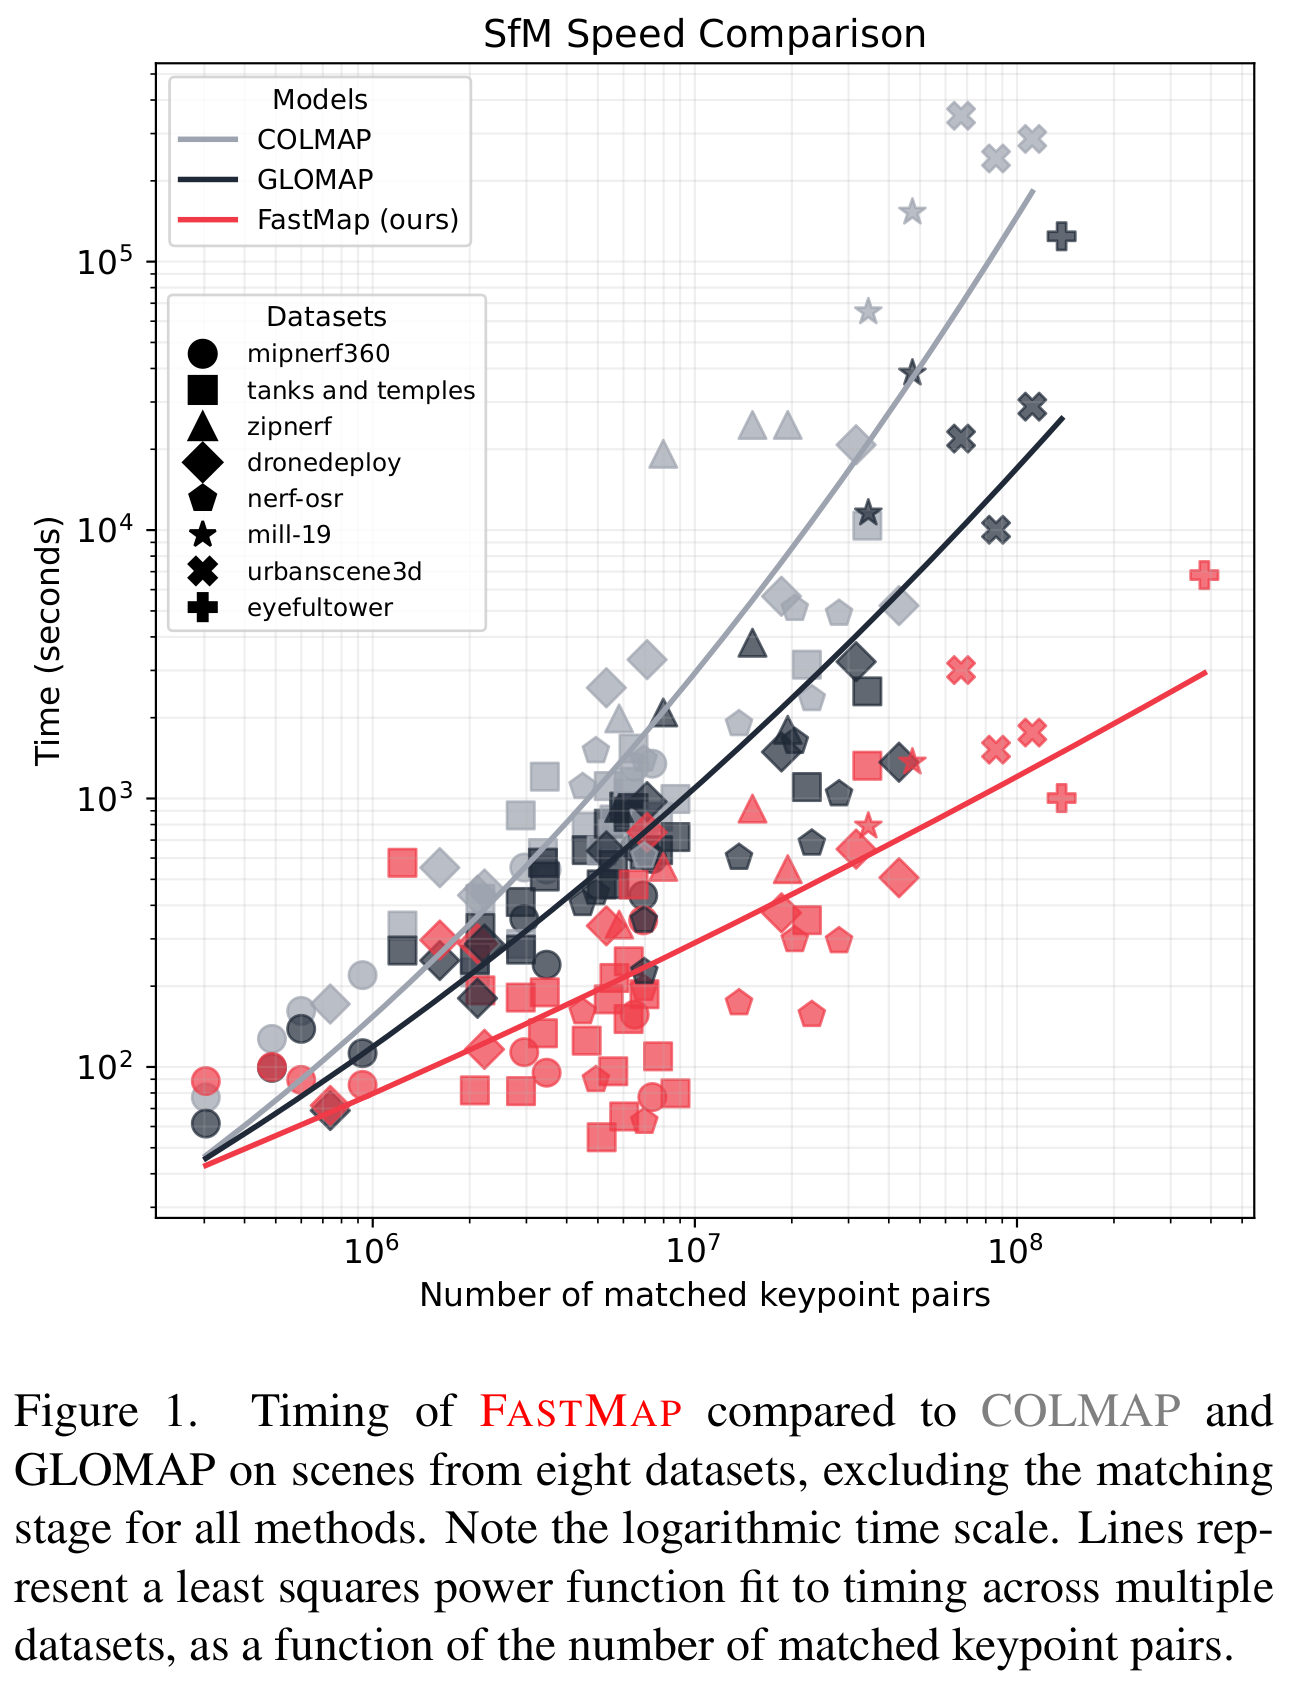
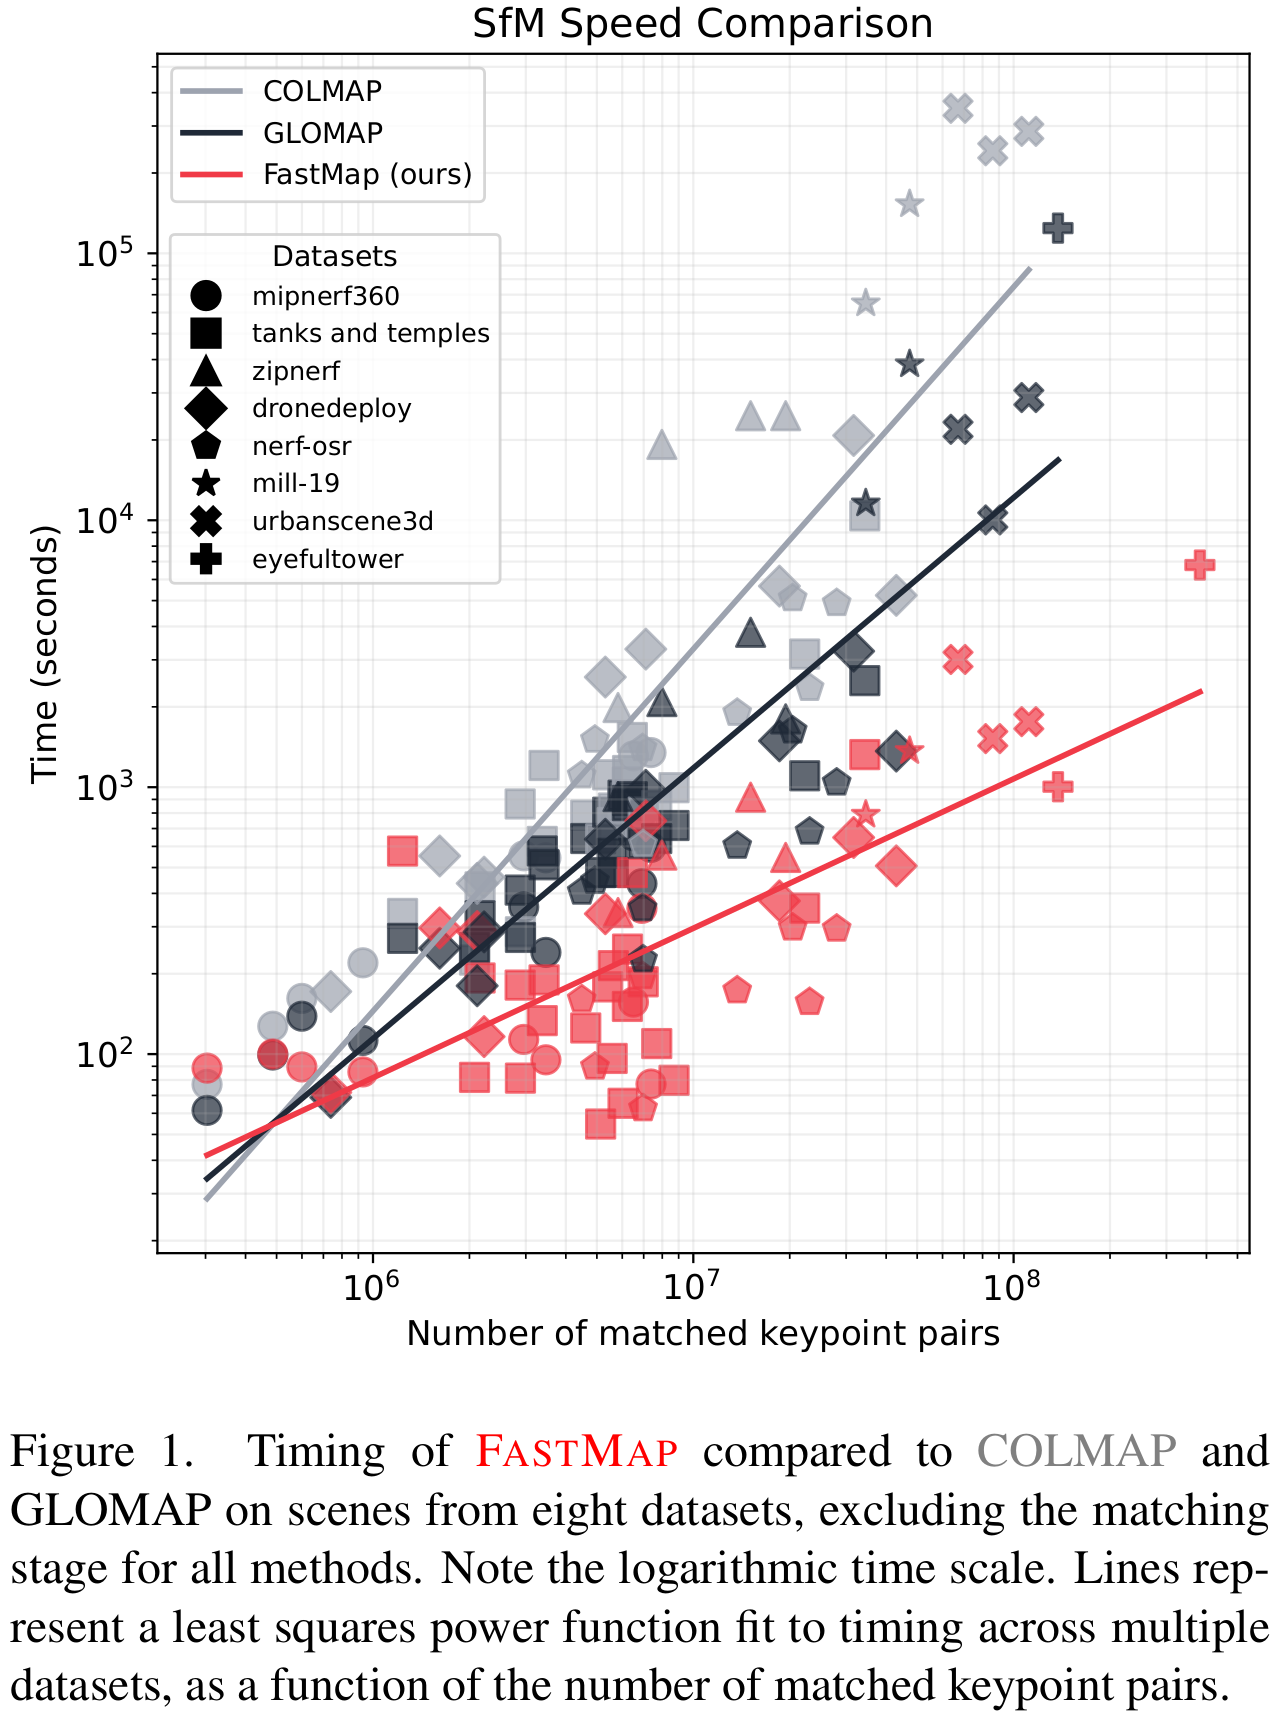
update fastmap

diff --git a/fastmap/index.html b/fastmap/index.html
@@ -55,7 +55,7 @@
       <div class="columns is-centered">
         <div class="column has-text-centered">
           <h1 class="title is-1 publication-title"> 
-            <span class="dnerf">FastMap: Revisiting Dense and Scalable Structure from Motion</span>
+            <span class="dnerf">FastMap: Revisiting Structure from Motion through First-Order Optimization</span>
           </h1>
 
           <div class="is-size-5 publication-authors">
@@ -134,11 +134,11 @@
       <div class="column is-four-fifths">
         <h2 class="title is-3">Abstract</h2>
         <div class="content has-text-justified">
-          <p style="color: gray;">
-            <b>NOTE</b>: <i>We recently tested the newly added GPU support in GLOMAP. Paired with powerful CPUs, it runs much faster than the pure CPU version, and the speed gap between FastMap and GLOMAP is smaller than reported in the current version of the paper. We are trying to get more detailed timing results on different hardware configurations and will report them soon.</i><br>
-          </p>
+          <!-- <p style="color: gray;"> -->
+          <!--   <b>NOTE</b>: <i>We recently tested the newly added GPU support in GLOMAP. Paired with powerful CPUs, it runs much faster than the pure CPU version, and the speed gap between FastMap and GLOMAP is smaller than reported in the current version of the paper. We are trying to get more detailed timing results on different hardware configurations and will report them soon.</i><br> -->
+          <!-- </p> -->
           <p>
-            We propose <strong>FastMap</strong>, a new global structure from motion method focused on speed and simplicity. Previous methods like COLMAP and GLOMAP are able to estimate high-precision camera poses, but suffer from poor scalability when the number of matched keypoint pairs becomes large. We identify two key factors leading to this problem: poor parallelization and computationally expensive optimization steps. To overcome these issues, we design an SfM framework that relies entirely on GPU-friendly operations, making it easily parallelizable. Moreover, each optimization step runs in time linear to the number of image pairs, independent of keypoint pairs or 3D points. Through extensive experiments, we show that <strong>FastMap</strong> is one to two orders of magnitude faster than COLMAP and GLOMAP on large-scale scenes with comparable pose accuracy.
+            We propose <strong>FastMap</strong>, a new global structure from motion method focused on speed and simplicity. Previous methods like COLMAP and GLOMAP are able to estimate high-precision camera poses, but suffer from poor scalability when the number of matched keypoint pairs becomes large, mainly due to the time-consuming process of second-order Gauss-Newton optimization. Instead, we design our method solely based on first-order optimizers. To obtain maximal speedup, we identify and eliminate two key performance bottlenecks: computational complexity and the kernel implementation of each optimization step. Through extensive experiments, we show that FastMap is up to 10 times faster than COLMAP and GLOMAP with GPU acceleration and achieves comparable pose accuracy.
             <br><br>
           </p>
     <img src="./static/images/diagram.png" alt="diagram">
@@ -302,14 +302,14 @@
     <pre><code>
 @article{2505.04612v1,
     Author        = {Jiahao Li and Haochen Wang and Muhammad Zubair Irshad and Igor Vasiljevic and Matthew R. Walter and Vitor Campagnolo Guizilini and Greg Shakhnarovich},
-    Title         = {FastMap: Revisiting Dense and Scalable Structure from Motion},
-    Eprint        = {2505.04612v1},
+    Title         = {FastMap: Revisiting Structure from Motion through First-Order Optimization},
+    Eprint        = {2505.04612v3},
     ArchivePrefix = {arXiv},
     PrimaryClass  = {cs.CV},
     Year          = {2025},
     Month         = {May},
-    Url           = {http://arxiv.org/abs/2505.04612v1},
-    File          = {2505.04612v1.pdf}
+    Url           = {http://arxiv.org/abs/2505.04612},
+    File          = {2505.04612v3.pdf}
 }
     </code></pre>
   </div>

diff --git a/index.html b/index.html
@@ -96,7 +96,7 @@
         </div>
         <div class="research-item-text">
           <div class="research-item-title">
-            <h3>FastMap: Revisiting Dense and Scalable Structure from Motion</h3>
+            <h3>FastMap: Revisiting Structure from Motion through First-Order Optimization</h3>
           </div>
           <div class="research-item-authors">
             <strong>Jiahao Li</strong>*,
